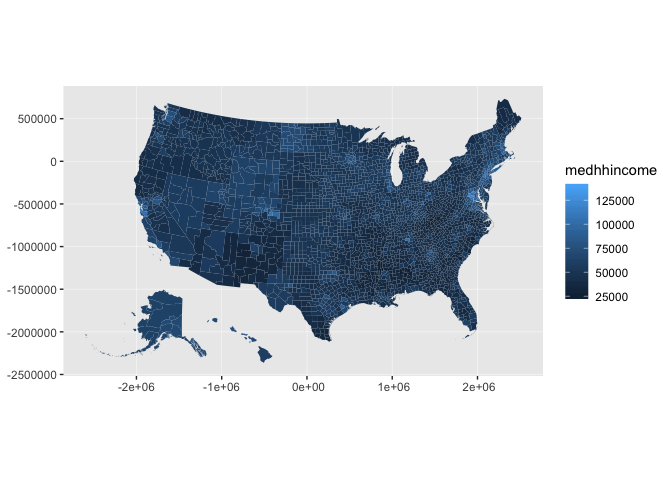
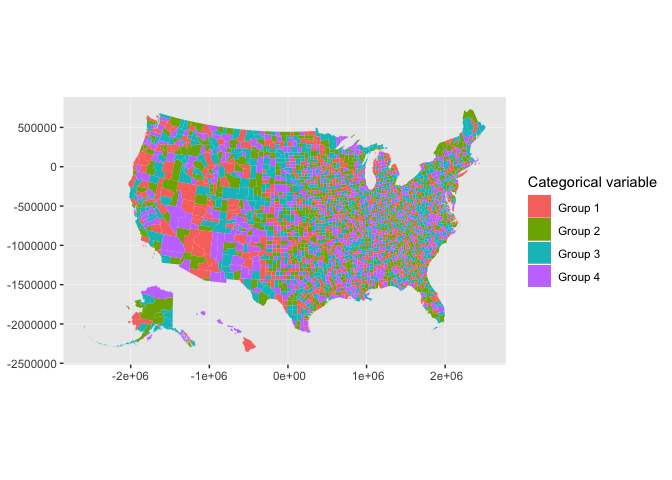
add discrete scale

diff --git a/README.md b/README.md
@@ -99,6 +99,8 @@ Merging Data
 
 The states and counties spatial data include various identifiers to simplify merging data. The states `states` tibble contains `state_fips`, `state_abbv`, and `state_name`. The `counties` tibble contains `county_fips`, `state_abbv`, `state_fips`, `county_name`, and `state_name`.
 
+Continuous data can be mapping on a color scale.
+
 ``` r
 spatial_data <- left_join(statedata,
                           get_urbn_map(map = "states", sf = TRUE),
@@ -113,14 +115,21 @@ ggplot() +
 
 ![](README_files/figure-markdown_github/us-choropleth-1.png)
 
+Categorical data can be mapped on a discrete color scale.
+
 ``` r
 counties_sf <- get_urbn_map(map = "counties", sf = TRUE)
-household_data <- left_join(countydata, counties_sf, by = "county_fips")
+county_groups <- countydata %>% 
+  mutate(cat_var = paste0("Group ",
+                          sample(1:4, nrow(countydata), replace = TRUE)))
+
+household_data <- left_join(county_groups, counties_sf, by = "county_fips")
 
 household_data %>%
   ggplot() +
-  geom_sf(mapping = aes(fill = medhhincome),
-          color = NA, size = 0.05)
+  geom_sf(mapping = aes(fill = cat_var),
+          color = NA, size = 0.05) +
+  labs(fill = "Categorical variable")
 ```
 
 ![](README_files/figure-markdown_github/county-1.png)
@@ -168,7 +177,27 @@ dmv %>%
   labs(fill = "Median household income")
 ```
 
-![](README_files/figure-markdown_github/theme-counties-1.png)
+![](README_files/figure-markdown_github/theme-counties-1.png) A discrete color scale can also be used for categorical data.
+
+``` r
+state_categorical <- statedata %>% 
+  mutate(cat_var = paste0("Group ",
+                          sample(1:4, nrow(statedata), replace = TRUE))) %>% 
+  left_join(get_urbn_map(map = "states", sf = TRUE))
+```
+
+    ## Joining, by = c("state_fips", "state_name")
+
+``` r
+ggplot() +
+  geom_sf(state_categorical, mapping = aes(fill = cat_var),
+          color = "#ffffff") +
+  scale_fill_discrete() +
+  coord_sf(datum = NA) +
+  labs(fill = "Categorical variable")
+```
+
+![](README_files/figure-markdown_github/state-discrete-1.png)
 
 License
 -------
